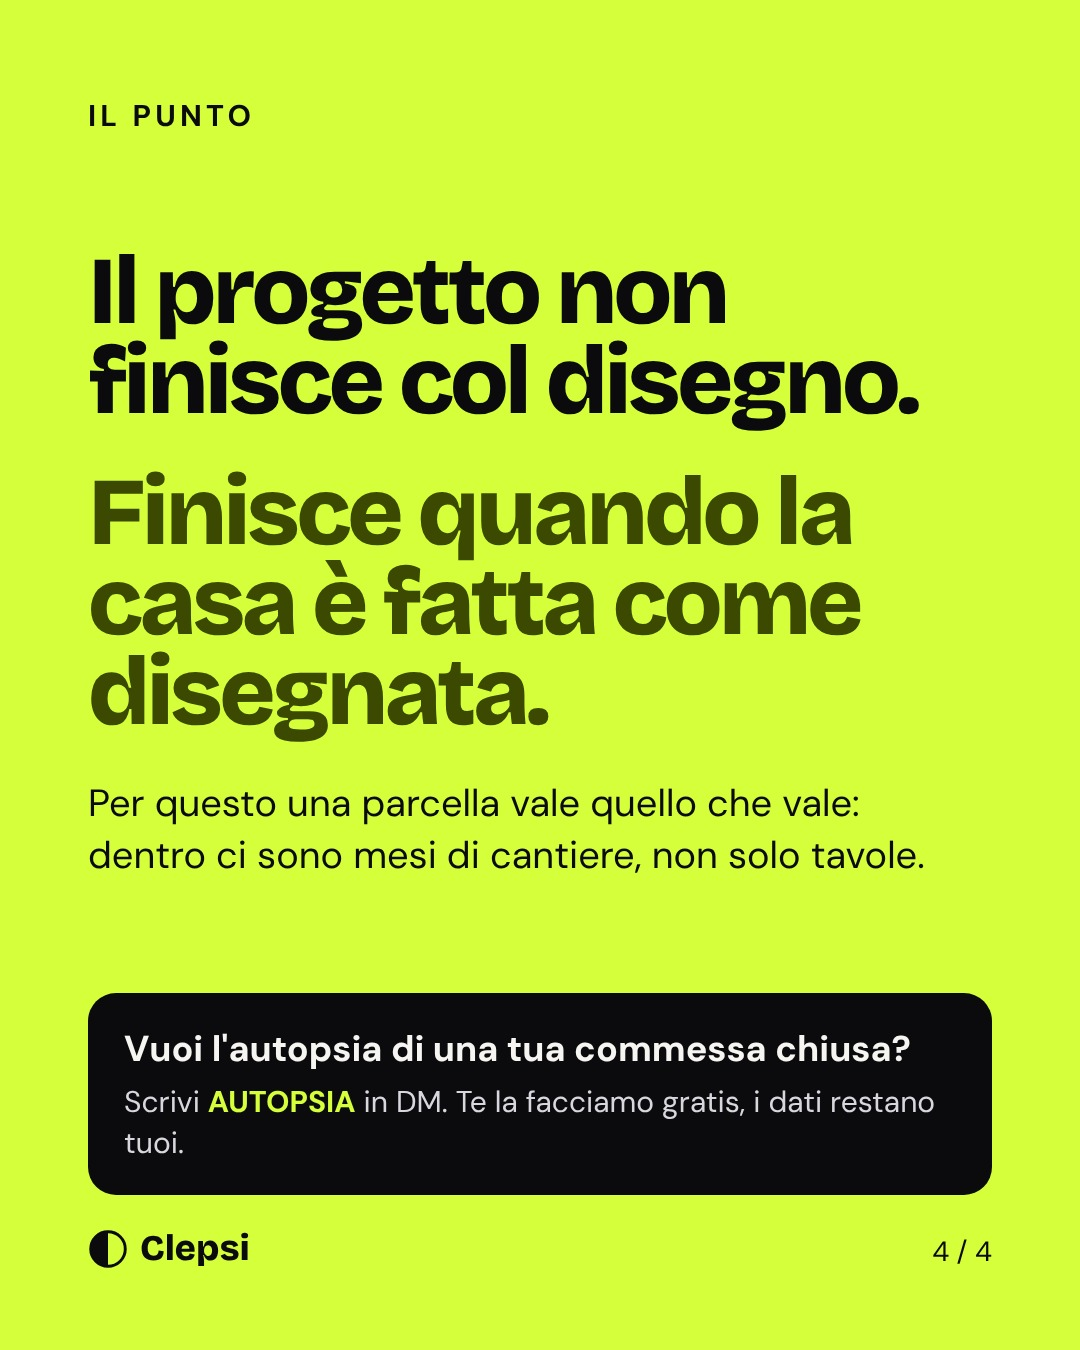
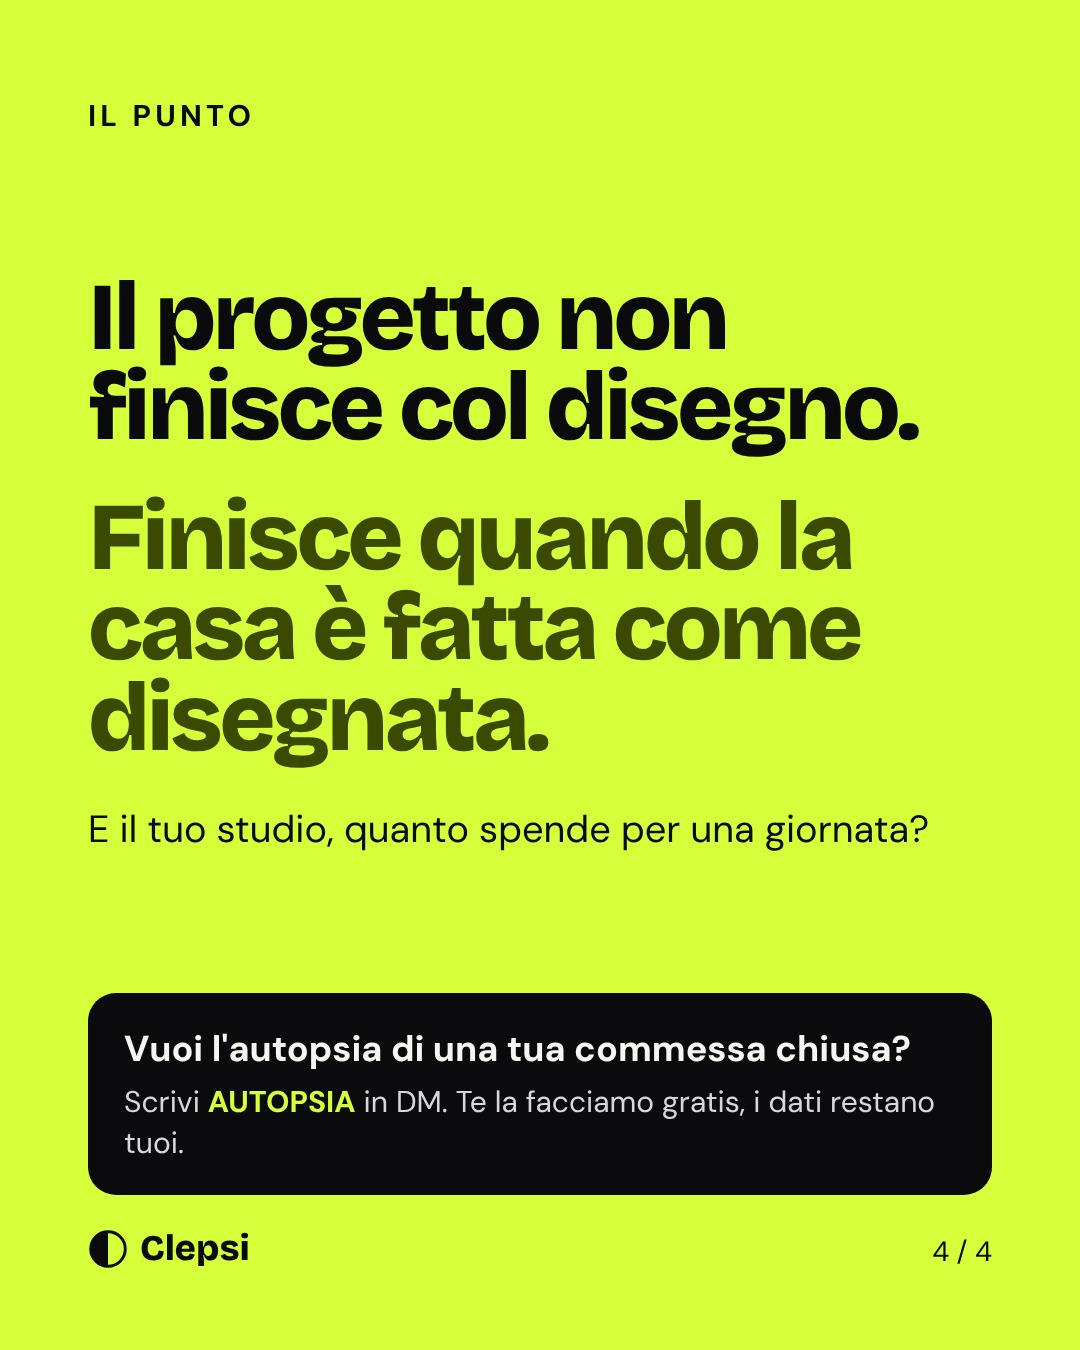
Autopsia Danilo: tavola 3 più leggera, tavola 4 con la domanda agli studi
Claude-Session: https://claude.ai/code/session_01WRBMKL9mWBeZBFDMMn3MKh

Changed region(s): [[0.0611, 0.1867, 0.8556, 0.6533]]

diff --git a/grafiche/danilo-4.dc.html b/grafiche/danilo-4.dc.html
@@ -16,7 +16,7 @@
 <div style="display: flex; flex-direction: column; gap: 40px">
 <span style="font-family: 'Bricolage Grotesque', sans-serif; font-weight: 800; font-size: 96px; line-height: 0.94; letter-spacing: -0.04em">Il progetto non finisce col disegno.</span>
 <span style="font-family: 'Bricolage Grotesque', sans-serif; font-weight: 800; font-size: 96px; line-height: 0.94; letter-spacing: -0.04em; color: #3B4A00">Finisce quando la casa è fatta come disegnata.</span>
-<span style="font-size: 38px; line-height: 1.35; max-width: 880px">Per questo una parcella vale quello che vale: dentro ci sono mesi di cantiere, non solo tavole.</span>
+<span style="font-size: 38px; line-height: 1.35; max-width: 880px">E il tuo studio, quanto spende per una giornata?</span>
 </div>
 <div style="display: flex; flex-direction: column; gap: 32px">
 <div style="display: flex; flex-direction: column; gap: 10px; padding: 32px 36px; border-radius: 28px; background: #0B0B0D; color: #F6F5F1">

diff --git a/grafiche/danilo-3.dc.html b/grafiche/danilo-3.dc.html
@@ -19,7 +19,6 @@
 <div style="display: flex; flex-direction: column; gap: 14px">
 <span style="font-size: 32px; font-weight: 700; color: #4A5A00">8.000 € diviso 33,5 giornate</span>
 <span style="font-family: 'Bricolage Grotesque', sans-serif; font-weight: 800; font-size: 132px; line-height: 0.9; letter-spacing: -0.05em; color: #4A5A00">≈ 240 €<span style="font-family: 'DM Sans', sans-serif; font-weight: 500; font-size: 44px; letter-spacing: 0; color: #121214"> a giornata</span></span>
-<span style="font-size: 34px; line-height: 1.3; color: #2E2D33">È la soglia. Se allo studio una giornata costa meno, la commessa guadagna. Se costa di più, perde.</span>
 </div>
 <div style="display: flex; flex-direction: column; gap: 22px">
 <div style="display: flex; flex-direction: column; gap: 18px; padding: 30px 34px; border-radius: 30px; background: #FFFFFF">
